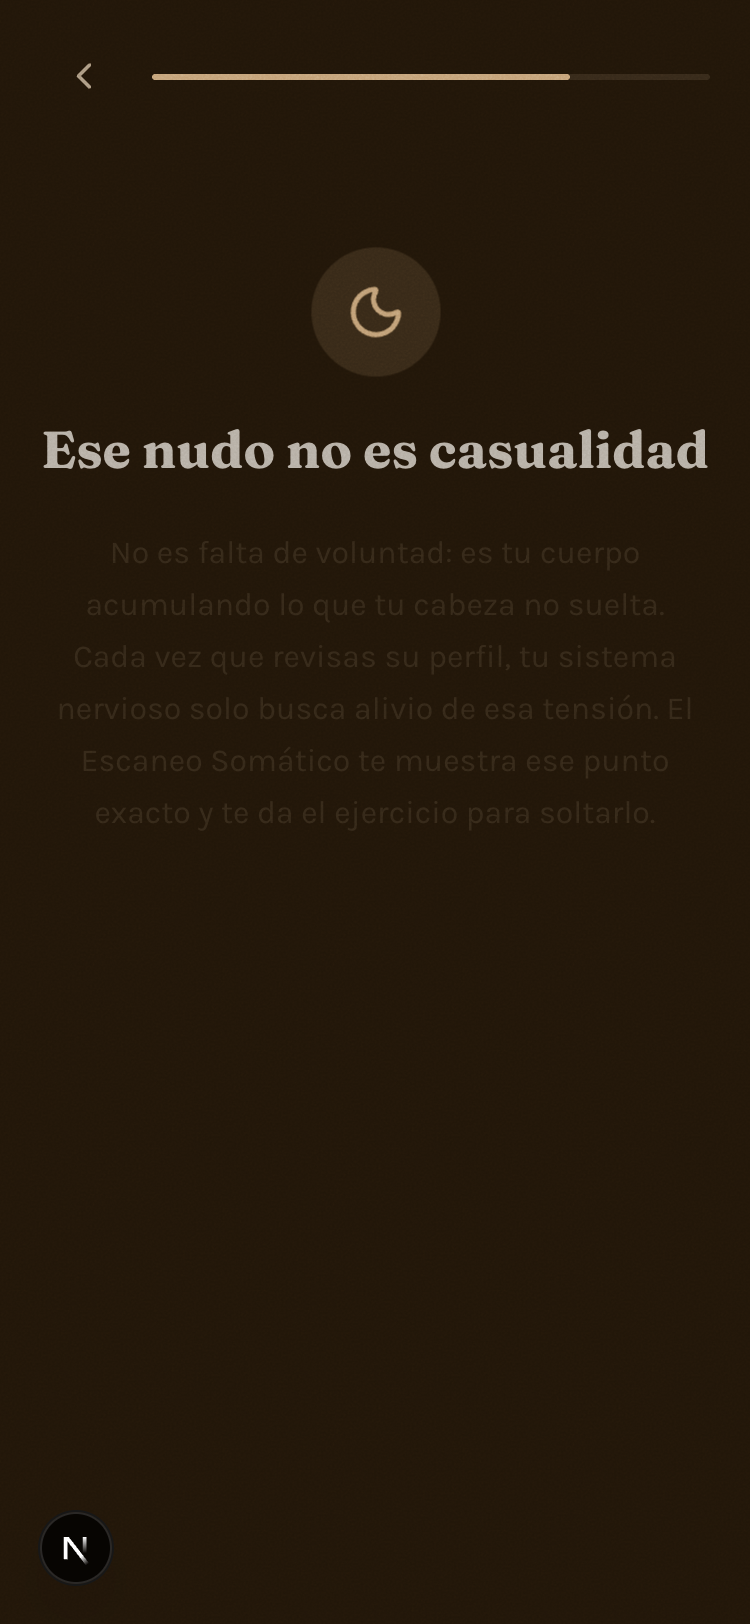
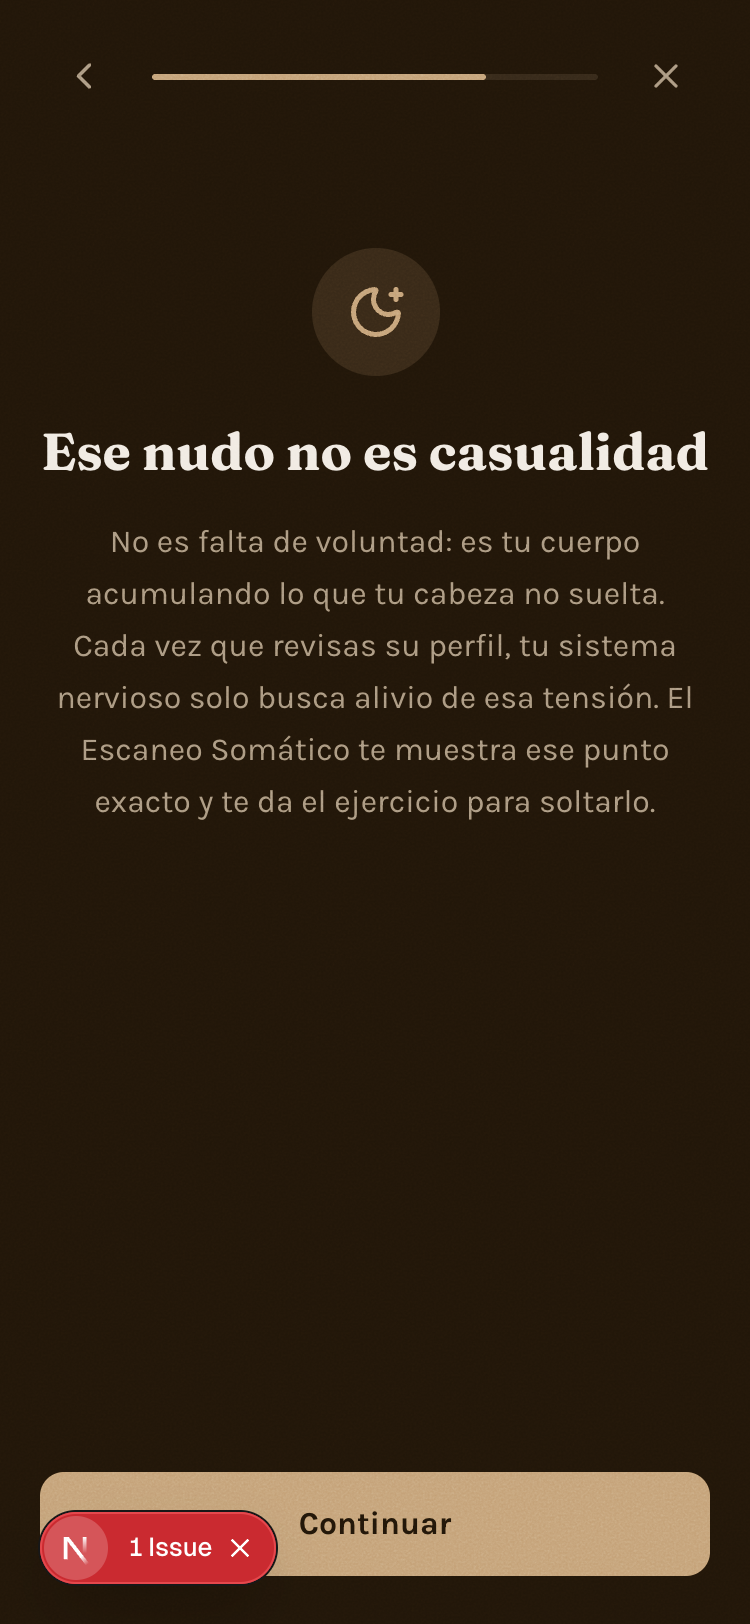
Corrige 5 hallazgos del revisor en el onboarding
- Reduced-motion: preguntas y reconocimientos ya no dejan el CTA/texto
  invisible cuando prefers-reduced-motion está activo (antes solo
  PantallaLoading lo manejaba)
- Iconos únicos por opción en las preguntas de zona y momento (antes 3
  de 4 opciones compartían el mismo icono genérico)
- Iconos agregados a las opciones de meta para unificar el componente
  de opción en las 4 preguntas
- Anillo del 72% reconstruido como SVG con stroke-dashoffset proporcional
  (antes era un círculo 100% cerrado sin relación con la cifra)
- Botón de salida (X) agregado al header, junto a la barra de progreso

diff --git a/app/onboarding/page.tsx b/app/onboarding/page.tsx
@@ -8,7 +8,7 @@
 
 import { useState } from 'react';
 import { motion, AnimatePresence, useReducedMotion } from 'motion/react';
-import { ChevronLeft, HeartCrack, Moon, Sunrise, Sun, HelpCircle } from 'lucide-react';
+import { ChevronLeft, X, HeartCrack, Waves, CircleDashed, HelpCircle, Sunrise, Sun, MoonStar, Moon, MessageCircleHeart, BedDouble, Sparkles } from 'lucide-react';
 
 type Respuestas = {
   situacion?: string;
@@ -44,6 +44,13 @@ function Header({ paso, onAtras }: { paso: number; onAtras?: () => void }) {
         <ChevronLeft size={22} aria-hidden="true" />
       </button>
       <BarraProgreso paso={paso} />
+      <a
+        href="/"
+        aria-label="Salir del escaneo"
+        className="flex size-11 shrink-0 items-center justify-center rounded-full text-[var(--text-secondary)] [touch-action:manipulation]"
+      >
+        <X size={20} aria-hidden="true" />
+      </a>
     </div>
   );
 }
@@ -70,6 +77,7 @@ function PantallaPregunta({
   onElegir: (valor: string) => void;
   onAtras?: () => void;
 }) {
+  const reduce = useReducedMotion();
   const [seleccion, setSeleccion] = useState<string | null>(null);
   const [otraAbierta, setOtraAbierta] = useState(false);
   const [textoOtra, setTextoOtra] = useState('');
@@ -83,10 +91,10 @@ function PantallaPregunta({
     <div className="flex min-h-dvh flex-col px-5">
       <Header paso={paso} onAtras={onAtras} />
       <motion.div
-        initial={{ opacity: 0, x: 40 }}
+        initial={reduce ? { opacity: 1, x: 0 } : { opacity: 0, x: 40 }}
         animate={{ opacity: 1, x: 0 }}
-        exit={{ opacity: 0, x: -24 }}
-        transition={{ duration: 0.3, ease: [0.16, 1, 0.3, 1] }}
+        exit={reduce ? { opacity: 1, x: 0 } : { opacity: 0, x: -24 }}
+        transition={{ duration: reduce ? 0.2 : 0.3, ease: [0.16, 1, 0.3, 1] }}
         className="mt-10 flex-1"
       >
         <h1 className="text-balance text-[30px] font-bold leading-[1.1] tracking-[-0.02em] text-[var(--text-primary)] [font-family:var(--font-display)]">
@@ -103,9 +111,9 @@ function PantallaPregunta({
                 <motion.button
                   key={op.label}
                   type="button"
-                  initial={{ opacity: 0, y: 8 }}
+                  initial={reduce ? { opacity: 1, y: 0 } : { opacity: 0, y: 8 }}
                   animate={{ opacity: 1, y: 0 }}
-                  transition={{ delay: i * 0.06 }}
+                  transition={{ delay: reduce ? 0 : i * 0.06 }}
                   whileTap={{ scale: 0.98 }}
                   onClick={() => elegir(op.label)}
                   className={`flex h-14 w-full items-center gap-3 rounded-[var(--radius-card)] border px-4 text-left text-[16px] font-medium transition-colors [touch-action:manipulation] ${
@@ -173,43 +181,45 @@ function PantallaReconocimiento({
   onContinuar: () => void;
   onAtras?: () => void;
 }) {
+  const reduce = useReducedMotion();
+  const d = (n: number) => (reduce ? 0 : n);
   return (
     <div className="flex min-h-dvh flex-col px-5">
       <Header paso={paso} onAtras={onAtras} />
       <motion.div
-        initial={{ opacity: 0 }}
+        initial={{ opacity: reduce ? 1 : 0 }}
         animate={{ opacity: 1 }}
         className="mt-16 flex flex-1 flex-col items-center text-center"
       >
         <motion.span
-          initial={{ scale: 0.7, opacity: 0 }}
+          initial={reduce ? { scale: 1, opacity: 1 } : { scale: 0.7, opacity: 0 }}
           animate={{ scale: 1, opacity: 1 }}
-          transition={{ delay: 0.1 }}
+          transition={{ delay: d(0.1) }}
           className="respira-marco flex size-16 items-center justify-center rounded-full bg-[color-mix(in_oklab,var(--accent)_14%,transparent)]"
         >
-          <Moon size={30} color="var(--accent)" aria-hidden={true} />
+          <MoonStar size={30} color="var(--accent)" aria-hidden={true} />
         </motion.span>
         <motion.h1
-          initial={{ opacity: 0, y: 8 }}
+          initial={reduce ? { opacity: 1, y: 0 } : { opacity: 0, y: 8 }}
           animate={{ opacity: 1, y: 0 }}
-          transition={{ delay: 0.2 }}
+          transition={{ delay: d(0.2) }}
           className="mt-6 text-balance text-[26px] font-bold leading-[1.15] text-[var(--text-primary)] [font-family:var(--font-display)]"
         >
           {titulo}
         </motion.h1>
         <motion.p
-          initial={{ opacity: 0, y: 8 }}
+          initial={reduce ? { opacity: 1, y: 0 } : { opacity: 0, y: 8 }}
           animate={{ opacity: 1, y: 0 }}
-          transition={{ delay: 0.3 }}
+          transition={{ delay: d(0.3) }}
           className="mt-4 max-w-[320px] text-[16px] leading-relaxed text-[var(--text-secondary)]"
         >
           {cuerpo}
         </motion.p>
       </motion.div>
       <motion.button
-        initial={{ opacity: 0, y: 8 }}
+        initial={reduce ? { opacity: 1, y: 0 } : { opacity: 0, y: 8 }}
         animate={{ opacity: 1, y: 0 }}
-        transition={{ delay: 0.4 }}
+        transition={{ delay: d(0.4) }}
         type="button"
         whileTap={{ scale: 0.97 }}
         onClick={onContinuar}
@@ -261,11 +271,12 @@ function PantallaLoading({ onListo }: { onListo: () => void }) {
 }
 
 function PantallaResultado({ respuestas }: { respuestas: Respuestas }) {
+  const reduce = useReducedMotion();
   const zona = respuestas.zona ?? 'tu cuerpo';
   return (
     <div className="flex min-h-dvh flex-col px-5 pt-10">
       <motion.div
-        initial={{ opacity: 0, y: 12 }}
+        initial={reduce ? { opacity: 1, y: 0 } : { opacity: 0, y: 12 }}
         animate={{ opacity: 1, y: 0 }}
         className="flex flex-1 flex-col items-center text-center"
       >
@@ -275,8 +286,22 @@ function PantallaResultado({ respuestas }: { respuestas: Respuestas }) {
         <h1 className="mt-3 text-balance text-[30px] font-bold leading-[1.1] text-[var(--text-primary)] [font-family:var(--font-display)]">
           Hoy tu tensión vive en {zona.toLowerCase()}
         </h1>
-        <div className="respira-marco mt-8 flex size-40 items-center justify-center rounded-full border-4 border-[var(--accent)]">
-          <span className="text-[40px] font-bold text-[var(--text-primary)] [font-family:var(--font-display)]">
+        <div className="respira-marco relative mt-8 flex size-40 items-center justify-center">
+          <svg width="160" height="160" viewBox="0 0 160 160" className="-rotate-90" role="img" aria-label="72 por ciento de tensión detectada">
+            <circle cx="80" cy="80" r="70" fill="none" strokeWidth="10" stroke="color-mix(in oklab, var(--accent) 16%, transparent)" />
+            <circle
+              cx="80"
+              cy="80"
+              r="70"
+              fill="none"
+              strokeWidth="10"
+              strokeLinecap="round"
+              stroke="var(--accent)"
+              strokeDasharray={2 * Math.PI * 70}
+              strokeDashoffset={2 * Math.PI * 70 * (1 - 0.72)}
+            />
+          </svg>
+          <span className="absolute text-[40px] font-bold text-[var(--text-primary)] [font-family:var(--font-display)]">
             72%
           </span>
         </div>
@@ -293,9 +318,9 @@ function PantallaResultado({ respuestas }: { respuestas: Respuestas }) {
       </motion.div>
 
       <motion.a
-        initial={{ opacity: 0, y: 8 }}
+        initial={reduce ? { opacity: 1, y: 0 } : { opacity: 0, y: 8 }}
         animate={{ opacity: 1, y: 0 }}
-        transition={{ delay: 0.2 }}
+        transition={{ delay: reduce ? 0 : 0.2 }}
         whileTap={{ scale: 0.97 }}
         href="/paywall"
         className="mb-[max(24px,env(safe-area-inset-bottom))] flex h-[52px] w-full items-center justify-center rounded-[var(--radius-button)] bg-[var(--accent)] text-[16px] font-semibold text-[var(--bg)] [touch-action:manipulation]"
@@ -357,8 +382,8 @@ export default function Onboarding() {
             subcopy="Esto define tu primer ejercicio de hoy"
             opciones={[
               { icon: HeartCrack, label: 'Pecho' },
-              { icon: HelpCircle, label: 'Garganta' },
-              { icon: HelpCircle, label: 'Estómago' },
+              { icon: MessageCircleHeart, label: 'Garganta' },
+              { icon: Waves, label: 'Estómago' },
               { icon: HelpCircle, label: 'No estoy segura' },
             ]}
             onElegir={(v) => {
@@ -376,7 +401,7 @@ export default function Onboarding() {
             opciones={[
               { icon: Sunrise, label: 'Al despertar' },
               { icon: Sun, label: 'Durante el día' },
-              { icon: Moon, label: 'Antes de dormir' },
+              { icon: BedDouble, label: 'Antes de dormir' },
               { icon: Moon, label: 'De madrugada (3 AM)' },
             ]}
             onElegir={(v) => {
@@ -406,10 +431,10 @@ export default function Onboarding() {
             paso={4}
             pregunta="¿Qué te gustaría lograr en 30 días?"
             opciones={[
-              { label: 'Dejar de contactar a mi ex' },
-              { label: 'Dormir sin darle vueltas' },
-              { label: 'Sentir calma todos los días' },
-              { label: 'Entender mi carta natal' },
+              { icon: HeartCrack, label: 'Dejar de contactar a mi ex' },
+              { icon: BedDouble, label: 'Dormir sin darle vueltas' },
+              { icon: Waves, label: 'Sentir calma todos los días' },
+              { icon: Sparkles, label: 'Entender mi carta natal' },
             ]}
             otraCosa
             onElegir={(v) => {

diff --git a/docs/revisiones/onboarding-veredicto.md b/docs/revisiones/onboarding-veredicto.md
@@ -1,0 +1,14 @@
+# VEREDICTO revisor-visual — onboarding
+Fecha: 2026-09-04 00:00
+Screenshot: docs/revisiones/onboarding-1-situacion.png, onboarding-2-zona.png, onboarding-3-momento.png, onboarding-4-reconocimiento1.png, onboarding-5-meta.png, onboarding-6-reconocimiento2.png, onboarding-7-loading.png, onboarding-8-resultado.png
+Usabilidad: 28/40
+Craft: 10/20
+Copy (si vende): N-A
+Fidelidad (si hubo referencia): N-A
+Veredicto: NO LISTA
+Top defectos:
+1. Pantallas 4 y 6 (reconocimiento): con prefers-reduced-motion emulado (usado por el propio script de captura, capturar-onboarding.mjs:5), el párrafo de cuerpo queda casi invisible (opacity a medio fundido) y el botón "Continuar" NO aparece en absoluto — el usuario no tiene forma visible de avanzar. Causa: PantallaReconocimiento anima icono/título/cuerpo/botón con delays escalonados (0.1/0.2/0.3/0.4s) sin acortar ni saltar ese fundido cuando useReducedMotion() es true (solo PantallaLoading lo hace). Fix: envolver PantallaPregunta y PantallaReconocimiento con useReducedMotion() y, si es true, render con opacity:1 inicial (sin delay) para todos los elementos, tal como exige la propia doc del proyecto (50-DISENO-ONBOARDING-PAYWALL.md:130, "reduced-motion: solo cross-fade 200ms").
+2. Pantalla 2 (zona) y pantalla 3 (momento): iconos repetidos sin distinguir opciones — en la pregunta de zona, "Garganta", "Estómago" y "No estoy segura" comparten el mismo icono genérico HelpCircle (3 de 4 opciones idénticas visualmente); en la pregunta de momento, "Antes de dormir" y "De madrugada (3 AM)" comparten el icono Moon. Un usuario cualquiera nota que las opciones "se ven iguales" sin razón. Fix: asignar un icono semánticamente distinto a cada opción (o quitar iconos de esa lista y usar solo texto, como ya se hace en la pantalla de meta).
+3. Pantalla 5 (meta): las opciones no llevan icono (solo texto), rompiendo la consistencia visual del componente "opción de lista" usado en las 3 preguntas anteriores (con icono + label). El mismo componente cambia de apariencia (indentado/gap) sin razón funcional dentro del mismo flujo. Fix: unificar — todas las preguntas de selección usan o no usan el slot de icono, nunca mezclado.
+4. Pantalla 8 (resultado): el anillo de "72%" es un círculo completo con border-4 sólido (app/onboarding/page.tsx:278) que NO representa el 72% — visualmente es un círculo 100% cerrado sin relación con la cifra dentro. Un usuario que mira el anillo y el número juntos percibe una incoherencia (el anillo no "dibuja" el progreso, viola la baseline de movimiento "anillos que se dibujan" y el encaje óptico número↔forma). Fix: usar un SVG con stroke-dasharray/stroke-dashoffset proporcional al 72% (con o sin animación de trazo según reduced-motion).
+5. Todo el flujo: no existe salida/skip visible (ni botón "saltar", ni "X" para cerrar el onboarding) — solo hay botón "Atrás". Para un flujo de 8 pantallas que decide el pago, la ausencia total de una vía de escape distinta a retroceder una por una reduce el control del usuario. Fix: agregar un cierre/salida discreto (esquina superior) que permita abandonar sin recorrer las 8 pantallas en reversa.
